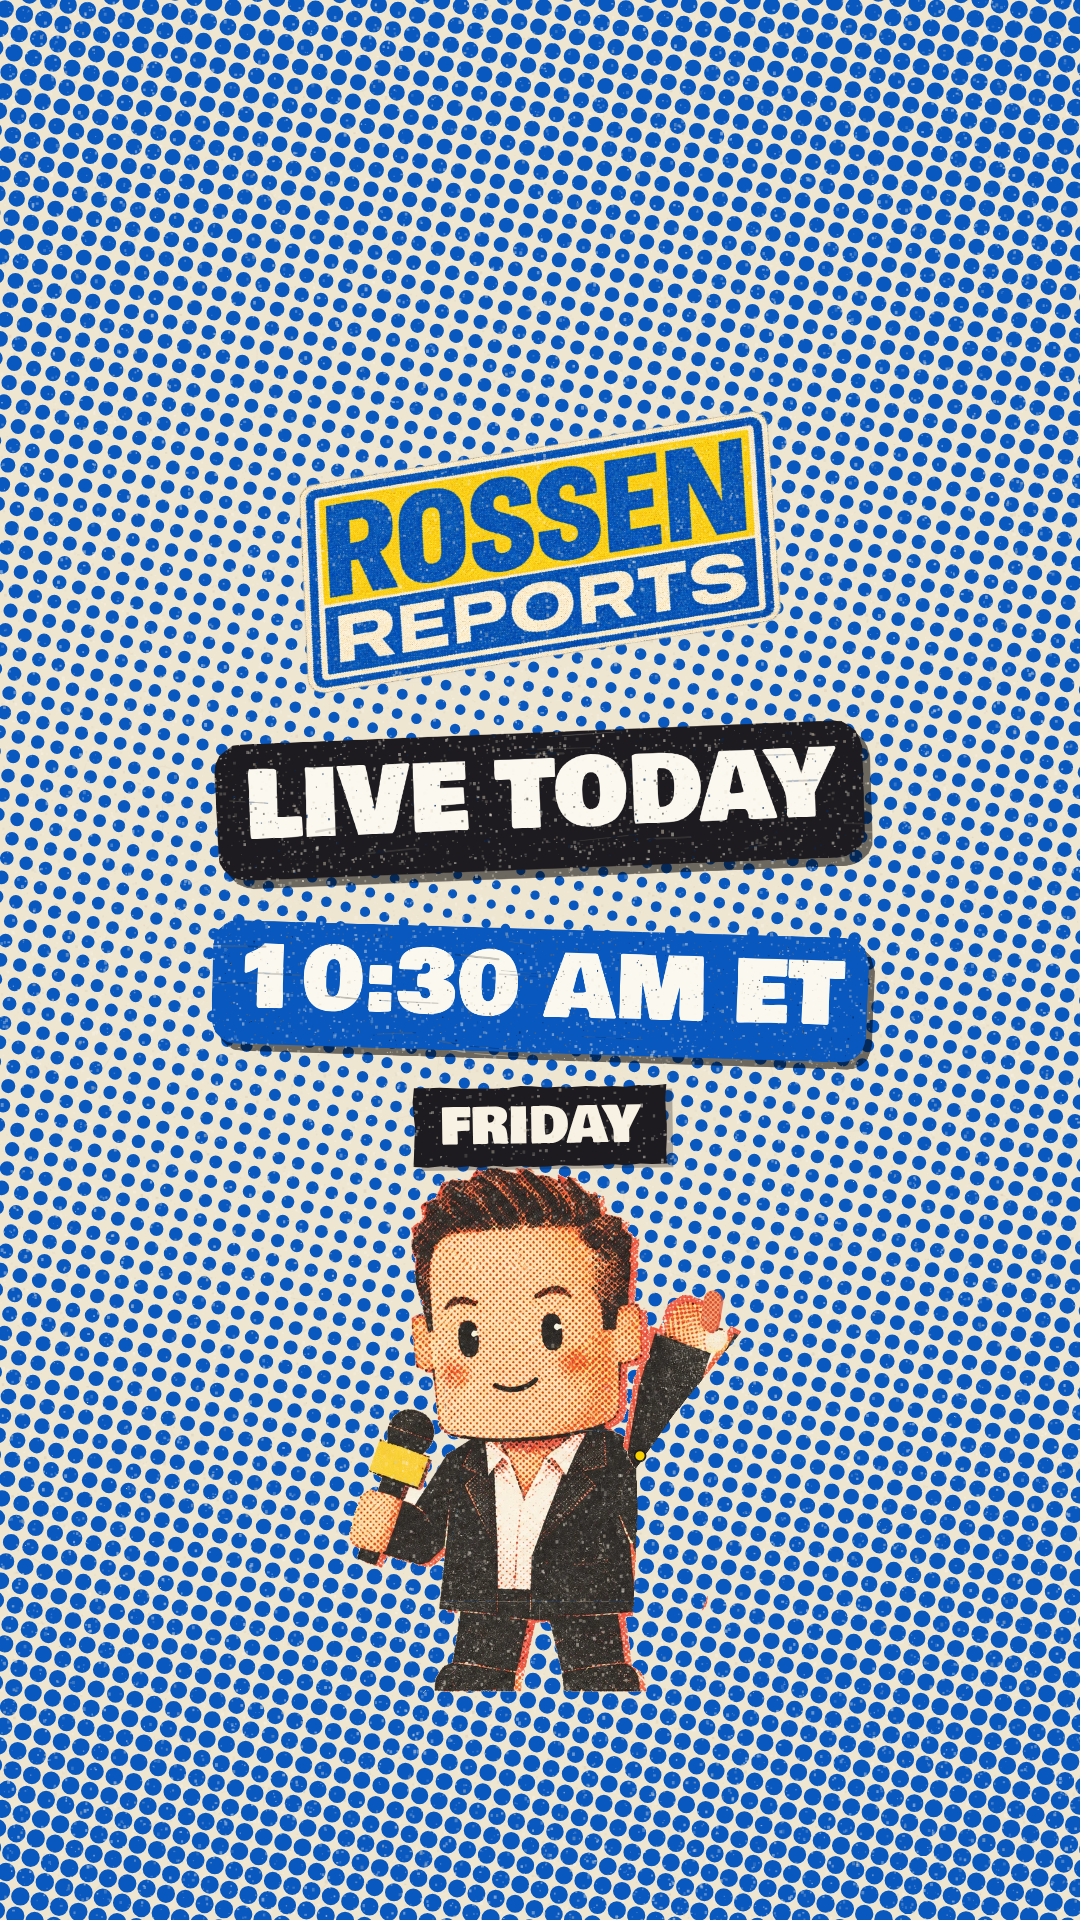
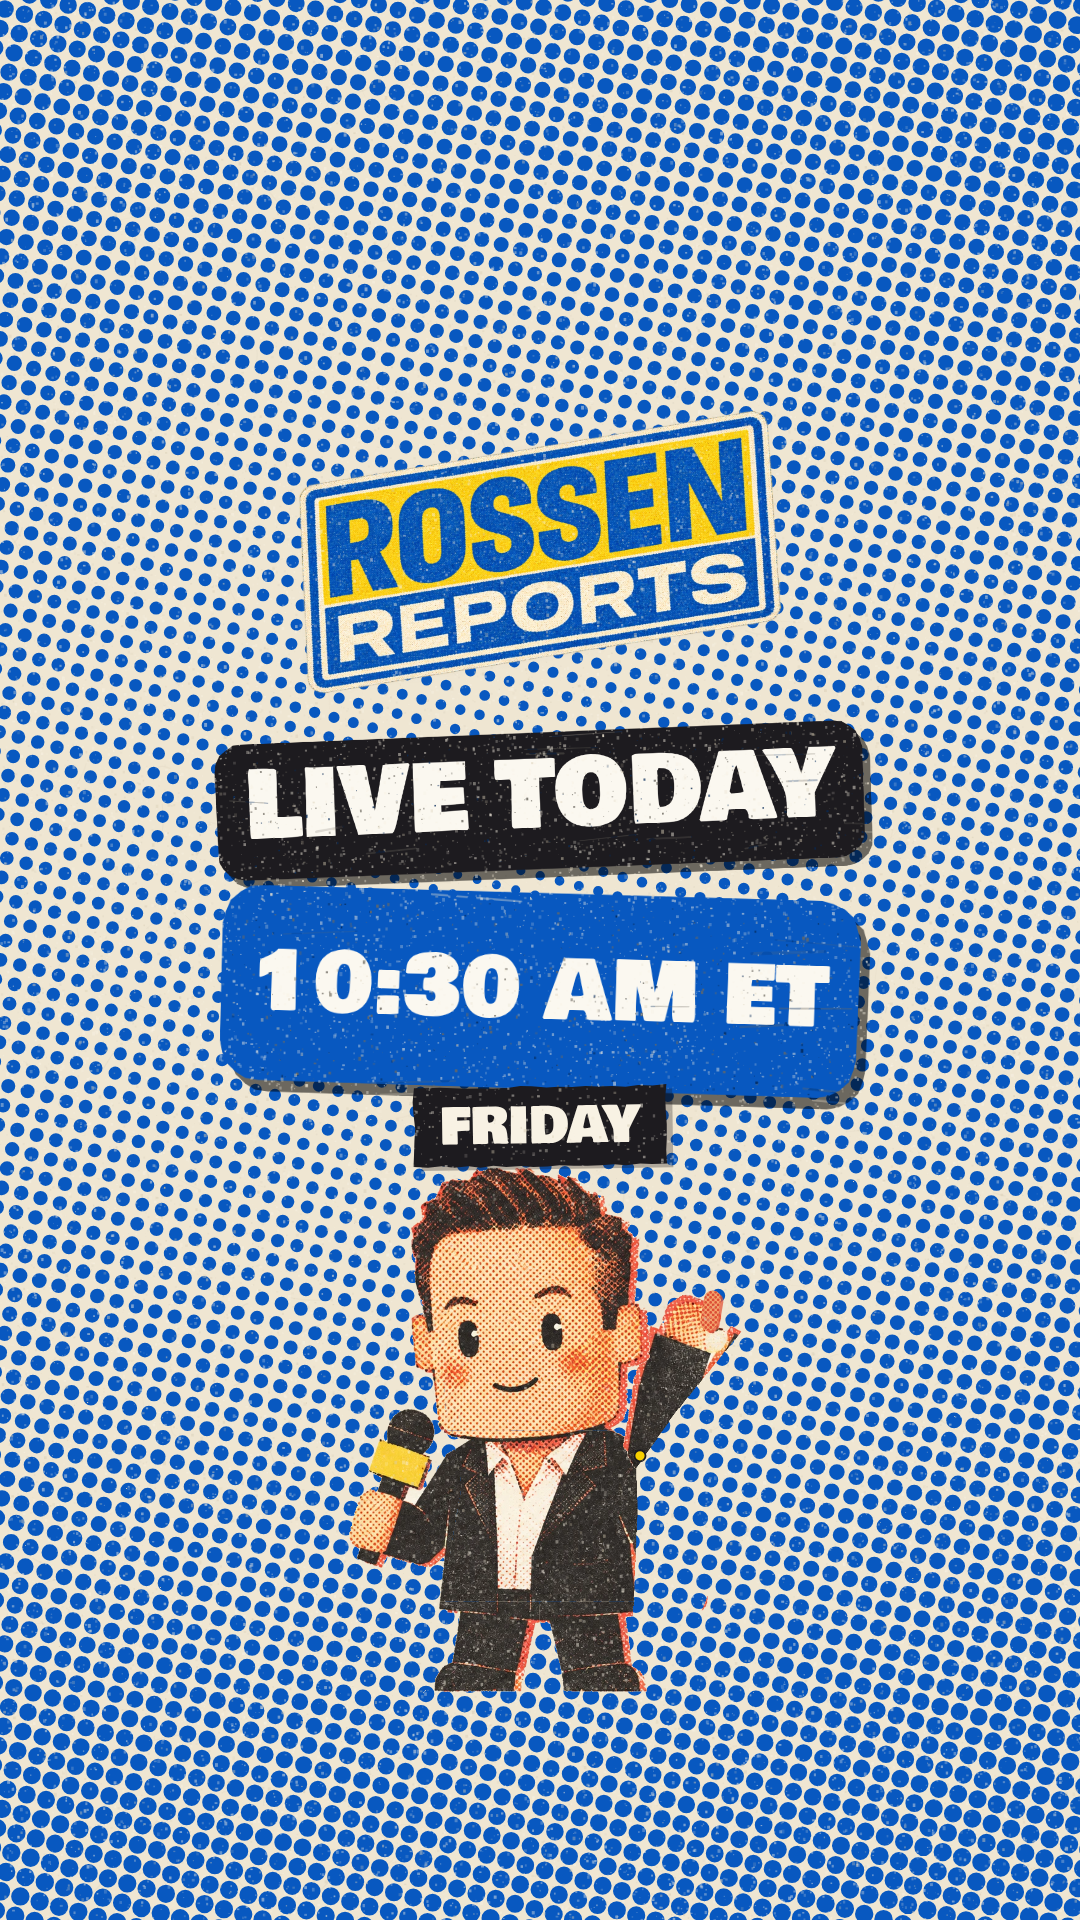
Friday card: airtime card matches the approved 5PM ET card exactly
A longer airtime now gets a smaller font inside a card of the same width
and height, instead of shrinking the whole card. The Wednesday render is
unchanged.

Claude-Session: https://claude.ai/code/session_011fNdEZx6swNX1pB5mU49YZ

Changed region(s): [[0.1833, 0.4375, 0.825, 0.5938]]

diff --git a/intro/livepromo.js b/intro/livepromo.js
@@ -152,6 +152,17 @@ function lensZoom(c, t) {   // bar 3 beat 4: through the lens into the LIVE TODA
 }
 
 // ================= LIVE TODAY 5PM ET =================
+// the airtime card is always the size of the approved 5PM ET card: same height and scale; a longer time gets a smaller
+// font inside the same card, never a smaller or larger card
+let TIME_K = 1;
+function timeCard() {
+  const ref = stampImg('5PM ET', BLUE, 170), rot = .03;
+  TIME_K = Math.min(.95, 800 / (ref.width * Math.cos(rot) + ref.height * Math.sin(rot)));
+  if (SHOW.time === '5PM ET') return ref;
+  const H0 = 170 * 1.12 + 26 * 2, W0 = ref.width - 52, m = document.createElement('canvas').getContext('2d'); m.font = '170px Stamp';
+  const tw = m.measureText(SHOW.time).width, maxTw = W0 - 2 * 34, size = tw > maxTw ? Math.floor(170 * maxTw / tw) : 170, tw2 = tw * size / 170;
+  return wordStamp(SHOW.time, { color: BLUE, style: 'fill', size, padX: (W0 - tw2) / 2, padY: (H0 - size * 1.12) / 2, seed: SHOW.time.length * 7 });
+}
 function sceneLive(c, t) {   // bars 4-5
   bgDots(c, BLUE, .12, .55);
   const [sx, sy] = shake(t, [[at(4), 16], [at(4, 1.5), 10]]);
@@ -161,7 +172,7 @@ function sceneLive(c, t) {   // bars 4-5
   jeffUp(c, t, at(4, 2), SCX, { armR: lerp(0, -2.5, th), prop: th > .6 ? 'thumb' : null, head: t > at(5) ? .05 * Math.sin((t - at(5)) * TAU / (2 * BEAT)) : 0 }, .72);
   c.save(); c.translate(sx, sy);
   stampFit(c, 'LIVE TODAY', BLK, 150, SCX, 790, -.04, .9 * beatPulse, t, at(4), 800, 1.25);
-  stampFit(c, SHOW.time, BLUE, 170, SCX, 1012, .03, .95 * beatPulse, t, at(4, 1.5), 800, 1.18);
+  stampLand(c, timeCard(), SCX, 1012, .03, TIME_K * beatPulse, t, at(4, 1.5), 1.18);
   if (t >= at(4, 2) - SLAM) { const k = pop(t, at(4, 2)); c.save(); c.translate(SCX, 1172); c.scale(k, k); c.rotate(-.015);
     c.font = '58px Stamp'; const w = c.measureText(SHOW.day).width + 60;
     c.save(); c.globalAlpha = .3; c.fillStyle = BLK; c.fillRect(-w / 2 + 8, -44, w, 92); c.restore(); ink(c, rect(-w / 2, -48, w, 92), BLK, 5601, { amp: 3 }); inkText(c, SHOW.day, 0, 4, 58, 'Stamp', CHIP, 600); c.restore(); }
